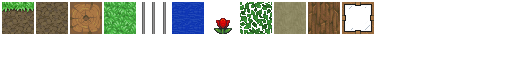
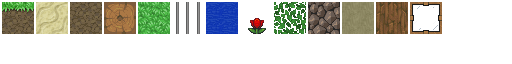
Started to rework world generation. Generation is now biome dependent, but is fairly uninteresting

diff --git a/core/src/com/deepwelldevelopment/spacequest/world/chunk/Chunk.java b/core/src/com/deepwelldevelopment/spacequest/world/chunk/Chunk.java
@@ -12,8 +12,7 @@ import com.deepwelldevelopment.spacequest.util.PositionUtils;
 import com.deepwelldevelopment.spacequest.world.World;
 import com.deepwelldevelopment.spacequest.world.biome.Biome;
 import com.deepwelldevelopment.spacequest.world.noise.SimplexNoise;
-import com.deepwelldevelopment.spacequest.world.noise.SimplexNoise2;
-import com.deepwelldevelopment.spacequest.world.noise.SimplexNoise3;
+import com.flowpowered.noise.module.source.Perlin;
 
 import java.util.Arrays;
 import java.util.HashSet;
@@ -33,6 +32,8 @@ public class Chunk {
 
     private static final ExecutorService executorService = Executors.newFixedThreadPool(
             Runtime.getRuntime().availableProcessors() - 1);
+
+    private static double offsetIncrement = 0.005;
 
     protected static Random random;
     protected static Vector3 landscapeRandomOffset1;
@@ -59,6 +60,7 @@ public class Chunk {
     private byte[] lightmap;
     //true if the block at a given position can see the sky (and thus is the highest block in the column for generation)
     private boolean[] heightmap;
+    private int[][] generationHeightmap;
     private Biome biome;
     private int blockCounter;
     private boolean active = true;
@@ -69,6 +71,7 @@ public class Chunk {
     private boolean fullRebuildOfLight;
     private boolean needMeshUpdate;
     private int timesSinceUpdate;
+    private Perlin perlin;
 
     public Chunk(World world, IBlockProvider blockProvider, Vector3 worldPosition, int chunkPosX, int chunkPosZ, Biome biome) {
         isReady = false;
@@ -78,11 +81,21 @@ public class Chunk {
         this.chunkPosX = chunkPosX;
         this.chunkPosZ = chunkPosZ;
         this.biome = biome;
+        this.perlin = new Perlin();
+        perlin.setSeed((int) world.getSeed());
+        perlin.setFrequency(1);
+        perlin.setOctaveCount(6);
+        perlin.setLacunarity(2);
+        perlin.setPersistence(.5);
         map = new byte[World.CHUNK_WIDTH * World.CHUNK_WIDTH * World.MAX_HEIGHT];
         lightmap = new byte[World.CHUNK_WIDTH * World.CHUNK_WIDTH * World.MAX_HEIGHT];
         heightmap = new boolean[World.CHUNK_WIDTH * World.CHUNK_WIDTH * World.MAX_HEIGHT];
+        generationHeightmap = new int[World.CHUNK_WIDTH][World.CHUNK_WIDTH];
         Arrays.fill(lightmap, DARKNESS);
         Arrays.fill(heightmap, false);
+        for (int[] arr : generationHeightmap) {
+            Arrays.fill(arr, 47);
+        }
 
         //prepare VoxelMeshes for the chunk. Each mesh is 16x16x16
         for (int i = 0; i < World.MAX_HEIGHT / 16; i++) {
@@ -141,6 +154,20 @@ public class Chunk {
     }
 
     protected void calculateChunk(Vector3 worldPosition, Biome biome, IBlockProvider blockProvider) {
+        //calculates a heightmap for the chunk
+        double xOff = chunkPosX * 16 * offsetIncrement;
+        double zOff = chunkPosZ * 16 * offsetIncrement;
+        double startZ = zOff;
+        for (int x = 0; x < World.CHUNK_WIDTH; x++) {
+            for (int z = World.CHUNK_WIDTH - 1; z >= 0; z--) {
+                generationHeightmap[x][z] += (biome.getHeight() * perlin.getValue(xOff, 0, zOff));
+                zOff -= offsetIncrement;
+            }
+            xOff += offsetIncrement;
+            zOff = startZ;
+        }
+
+        //fills the chunk blocks
         Vector3 worldPosOfXYZ = new Vector3();
         for (int y = 0; y < World.MAX_HEIGHT; y++) {
             for (int x = 0; x < World.CHUNK_WIDTH; x++) {
@@ -216,99 +243,29 @@ public class Chunk {
     }
 
     protected byte getByteAtWorldPosition(int x, int y, int z, Biome biome, Vector3 worldPosition) {
-        if (y == 1) {
-            return BlockProvider.limeStone.getId();
-        }
-
-        if (y == World.MAX_HEIGHT - 1 || y == World.MAX_HEIGHT) {
-            return 0;
-        }
-
-//        if (y == random.nextInt(80) && random.nextFloat() < 0.19f && !isBlockTransparent(x, y - 1, z) &&
-//                (getByteAtWorldPosition(x, y - 1, z, biome, worldPosition) == BlockProvider.grass.getId())) {
-//            return BlockProvider.light.getId();
-//        }
-
-
-        double caveDensity = SimplexNoise.noise(worldPosition.x * 0.01f, worldPosition.y * 0.02f, worldPosition.z * 0.01f);
-        double caveDensity2 = SimplexNoise2.noise(worldPosition.x * 0.01f, worldPosition.y * 0.02f, worldPosition.z * 0.01f);
-        if (caveDensity > 0.45 && caveDensity < 0.70 && caveDensity2 > 0.45 && caveDensity2 < 0.70) {
-            return 0;
-        }
-
-        double baseDensity = 0;
-
-        {
-            float frequency = 0.001f;
-            float weight = 1.0f - (y / World.MAX_HEIGHT);
-            float weight2 = 0.1f - (y / World.MAX_HEIGHT);
-
-            for (int i = 0; i < 3; i++) {
-                baseDensity += SimplexNoise.noise(worldPosition.x * frequency, worldPosition.y * frequency, worldPosition.z * frequency) * weight;
-                baseDensity += SimplexNoise2.noise(worldPosition.x * frequency, worldPosition.y * frequency * 2, worldPosition.z * frequency) * weight2;
-                frequency *= 3.5f;
-                weight *= 0.2f;
+        int height = generationHeightmap[x][z];
+        if (y < 35) { //subsurface area, noise does not affect this height
+            if (y < 30) {
+                return BlockProvider.stone.getId();
+            }
+            if (y > 30 && y < 34) {
+                return biome.getGroundFillerBlock();
+            }
+            if (y == 34) {
+                return biome.getSurfaceBlock();
             }
         }
-
-        double mountainDensity = 0;
-
-        {
-            float frequency = 0.001f;
-            float weight = 1f;
-
-            for (int i = 0; i < 3; i++) {
-                mountainDensity += SimplexNoise.noise(worldPosition.x * frequency, worldPosition.y * frequency * 2, worldPosition.z * frequency) * weight;
-                mountainDensity += SimplexNoise3.noise(worldPosition.x * frequency, worldPosition.y * frequency, worldPosition.z * frequency) * weight;
-                frequency *= 4.3f + (y / World.MAX_HEIGHT);
-                weight *= 0.4f;
-            }
+        int surfaceY = y - 34;
+        if (surfaceY > height) {
+            return BlockProvider.air.getId();
         }
-        mountainDensity += 1;
-
-        mountainDensity *= 48;
-
-        if (mountainDensity > y) {
-            double sandStoneNoise = SimplexNoise.noise(worldPosition.x * 0.008, worldPosition.y * 0.09, worldPosition.z * 0.006) * 0.019;
-            double shaleNoise = SimplexNoise2.noise(worldPosition.x * 0.022, worldPosition.y * 0.1, worldPosition.z * 0.026) * 0.053;
-
-            if (sandStoneNoise >= 0.0009) {
-                return BlockProvider.sandStone.getId();
-            } else if (shaleNoise >= 0.0001) {
-                return BlockProvider.shale.getId();
-            }
-
-            return BlockProvider.limeStone.getId();
+        if (surfaceY == height) {
+            return biome.getSurfaceBlock();
         }
-
-
-        baseDensity += 1;
-
-        baseDensity *= 48;
-
-
-        if (baseDensity > y) {
-            if (y > 48) {
-                return BlockProvider.grass.getId();
-            } else {
-                double sandStoneNoise = SimplexNoise.noise(worldPosition.x * 0.008, worldPosition.y * 0.09, worldPosition.z * 0.006) * 0.019;
-                double shaleNoise = SimplexNoise2.noise(worldPosition.x * 0.022, worldPosition.y * 0.1, worldPosition.z * 0.026) * 0.053;
-
-                if (sandStoneNoise >= 0.0009) {
-                    return BlockProvider.sandStone.getId();
-                } else if (shaleNoise >= 0.0001) {
-                    return BlockProvider.shale.getId();
-                }
-
-                return BlockProvider.limeStone.getId();
-            }
+        if (height - surfaceY < 4) {
+            return biome.getGroundFillerBlock();
         }
-
-        if (y < 49 && y > 0) {
-            return BlockProvider.water.getId();
-        }
-
-        return 0;
+        return BlockProvider.stone.getId();
     }
 
     protected double get2dNoise(Vector3 pos, Vector3 offset, double scale) {
@@ -592,8 +549,9 @@ public class Chunk {
                 int normalizedZ = z & 15;
                 return chunk.getBlock(normalizedX, y, normalizedZ);
             }
-            Biome biome = world.findBiome((int) Math.floor(worldPosition.x / World.CHUNK_WIDTH), (int) Math.floor(worldPosition.z / World.CHUNK_WIDTH));
-            return getByteAtWorldPosition(x, y, z, biome, worldPosition);
+//            Biome biome = world.findBiome((int) Math.floor(worldPosition.x / World.CHUNK_WIDTH), (int) Math.floor(worldPosition.z / World.CHUNK_WIDTH));
+//            return getByteAtWorldPosition(x, y, z, biome, worldPosition);
+            return 0;
             // }
         }
         return map[getLocationInArray(x, y, z)];

diff --git a/core/src/com/deepwelldevelopment/spacequest/world/biome/PlainsBiome.java b/core/src/com/deepwelldevelopment/spacequest/world/biome/PlainsBiome.java
@@ -5,7 +5,7 @@ import com.deepwelldevelopment.spacequest.block.BlockProvider;
 public class PlainsBiome extends Biome {
     @Override
     public int getHeight() {
-        return 5;
+        return 47;
     }
 
     @Override
@@ -14,18 +14,23 @@ public class PlainsBiome extends Biome {
     }
 
     @Override
-    public byte getGroundFillerBlock() {
+    public byte getSurfaceBlock() {
         return BlockProvider.grass.getId();
+    }
+
+    @Override
+    public byte getGroundFillerBlock() {
+        return BlockProvider.dirt.getId();
     }
 
     @Override
     public byte getMountainFillerBlock() {
-        return BlockProvider.grass.getId();
+        return BlockProvider.dirt.getId();
     }
 
     @Override
-    public boolean hasSandBeach() {
-        return false;
+    public byte getBeachBlock() {
+        return BlockProvider.dirt.getId();
     }
 
     @Override

diff --git a/core/src/com/deepwelldevelopment/spacequest/block/BlockProvider.java b/core/src/com/deepwelldevelopment/spacequest/block/BlockProvider.java
@@ -31,6 +31,9 @@ public class BlockProvider implements IBlockProvider {
     public static final Block shale = new Block((byte) 11, "limestone");
     //    public static final Block sandStone = new Block((byte) 12, "sandstone");
     public static final Block sandStone = new Block((byte) 12, "limestone");
+    public static final Block stone = new Block((byte) 13, "stone");
+    public static final Block sand = new Block((byte) 14, "sand");
+    public static final Block dirt = new Block((byte) 15, "dirt");
 
     private final Block[] blocks = new Block[128];
 
@@ -48,6 +51,9 @@ public class BlockProvider implements IBlockProvider {
         addBlock(straws);
         addBlock(flower);
         addBlock(water);
+        addBlock(stone);
+        addBlock(sand);
+        addBlock(dirt);
     }
 
     private void addBlock(Block block) {

diff --git a/core/src/com/deepwelldevelopment/spacequest/SpaceQuest.java b/core/src/com/deepwelldevelopment/spacequest/SpaceQuest.java
@@ -171,7 +171,8 @@ public class SpaceQuest implements ApplicationListener {
                 "/" + VoxelRender.getNumberOfChunks() + "  -  visible/total blocks: " +
                 VoxelRender.getNumberOfVisibleBlocks() + "/" + VoxelRender.getBlockCounter() +
                 "  -  visible vertices:" + VoxelRender.getNumberOfVertices() + "  -  visible indicies: " +
-                VoxelRender.getNumberOfIndices(), 0, 20);
+                VoxelRender.getNumberOfIndices() + " x: " + camera.position.x + " y: " + camera.position.y + " z: " +
+                camera.position.z, 0, 20);
 
         crosshairSprite.setPosition(Gdx.graphics.getWidth() / 2, Gdx.graphics.getHeight() / 2);
         crosshairSprite.draw(spriteBatch);

diff --git a/core/src/com/deepwelldevelopment/spacequest/world/World.java b/core/src/com/deepwelldevelopment/spacequest/world/World.java
@@ -23,7 +23,7 @@ import java.util.Random;
 public class World {
 
     public static final int CHUNK_WIDTH = 16;
-    public static final int MAX_HEIGHT = 128;
+    public static final int MAX_HEIGHT = 256;
     public static final int CHUNK_DISTANCE = 4;
     public static final int GROUND_HEIGHT = 10;
     private static final int MAX_CHUNKS_PER_UPDATE = Runtime.getRuntime().availableProcessors() * 4;

diff --git a/core/src/com/deepwelldevelopment/spacequest/world/biome/Biome.java b/core/src/com/deepwelldevelopment/spacequest/world/biome/Biome.java
@@ -6,11 +6,13 @@ public abstract class Biome {
 
     public abstract double getFieldObstacleAmount();
 
+    public abstract byte getSurfaceBlock();
+
     public abstract byte getGroundFillerBlock();
 
     public abstract byte getMountainFillerBlock();
 
-    public abstract boolean hasSandBeach();
+    public abstract byte getBeachBlock();
 
     public abstract double getAmountOfWater();
 }

diff --git a/core/src/com/deepwelldevelopment/spacequest/physics/PhysicsController.java b/core/src/com/deepwelldevelopment/spacequest/physics/PhysicsController.java
@@ -254,7 +254,7 @@ public class PhysicsController {
                 headBob = 0.05 * MathUtils.sin((float) (numberOfTicks * 0.5 * MathUtils.PI / 7));
             }
             tmp2.set(tmp.x, (float) (tmp.y + headBob + 0.7f), tmp.z);
-            camera.position.set(tmp2);
+//            camera.position.set(tmp2);
             previousPosition.set(tmp);
         }
 

diff --git a/core/src/com/deepwelldevelopment/spacequest/CameraController.java b/core/src/com/deepwelldevelopment/spacequest/CameraController.java
@@ -158,7 +158,7 @@ public class CameraController extends InputAdapter {
     }
 
     protected void movePlayer(Vector3 moveVector, boolean jump) {
-        physicsController.movePlayer(moveVector, jump);
-//        camera.position.add(moveVector);
+//        physicsController.movePlayer(moveVector, jump);
+        camera.position.add(moveVector);
     }
 }
